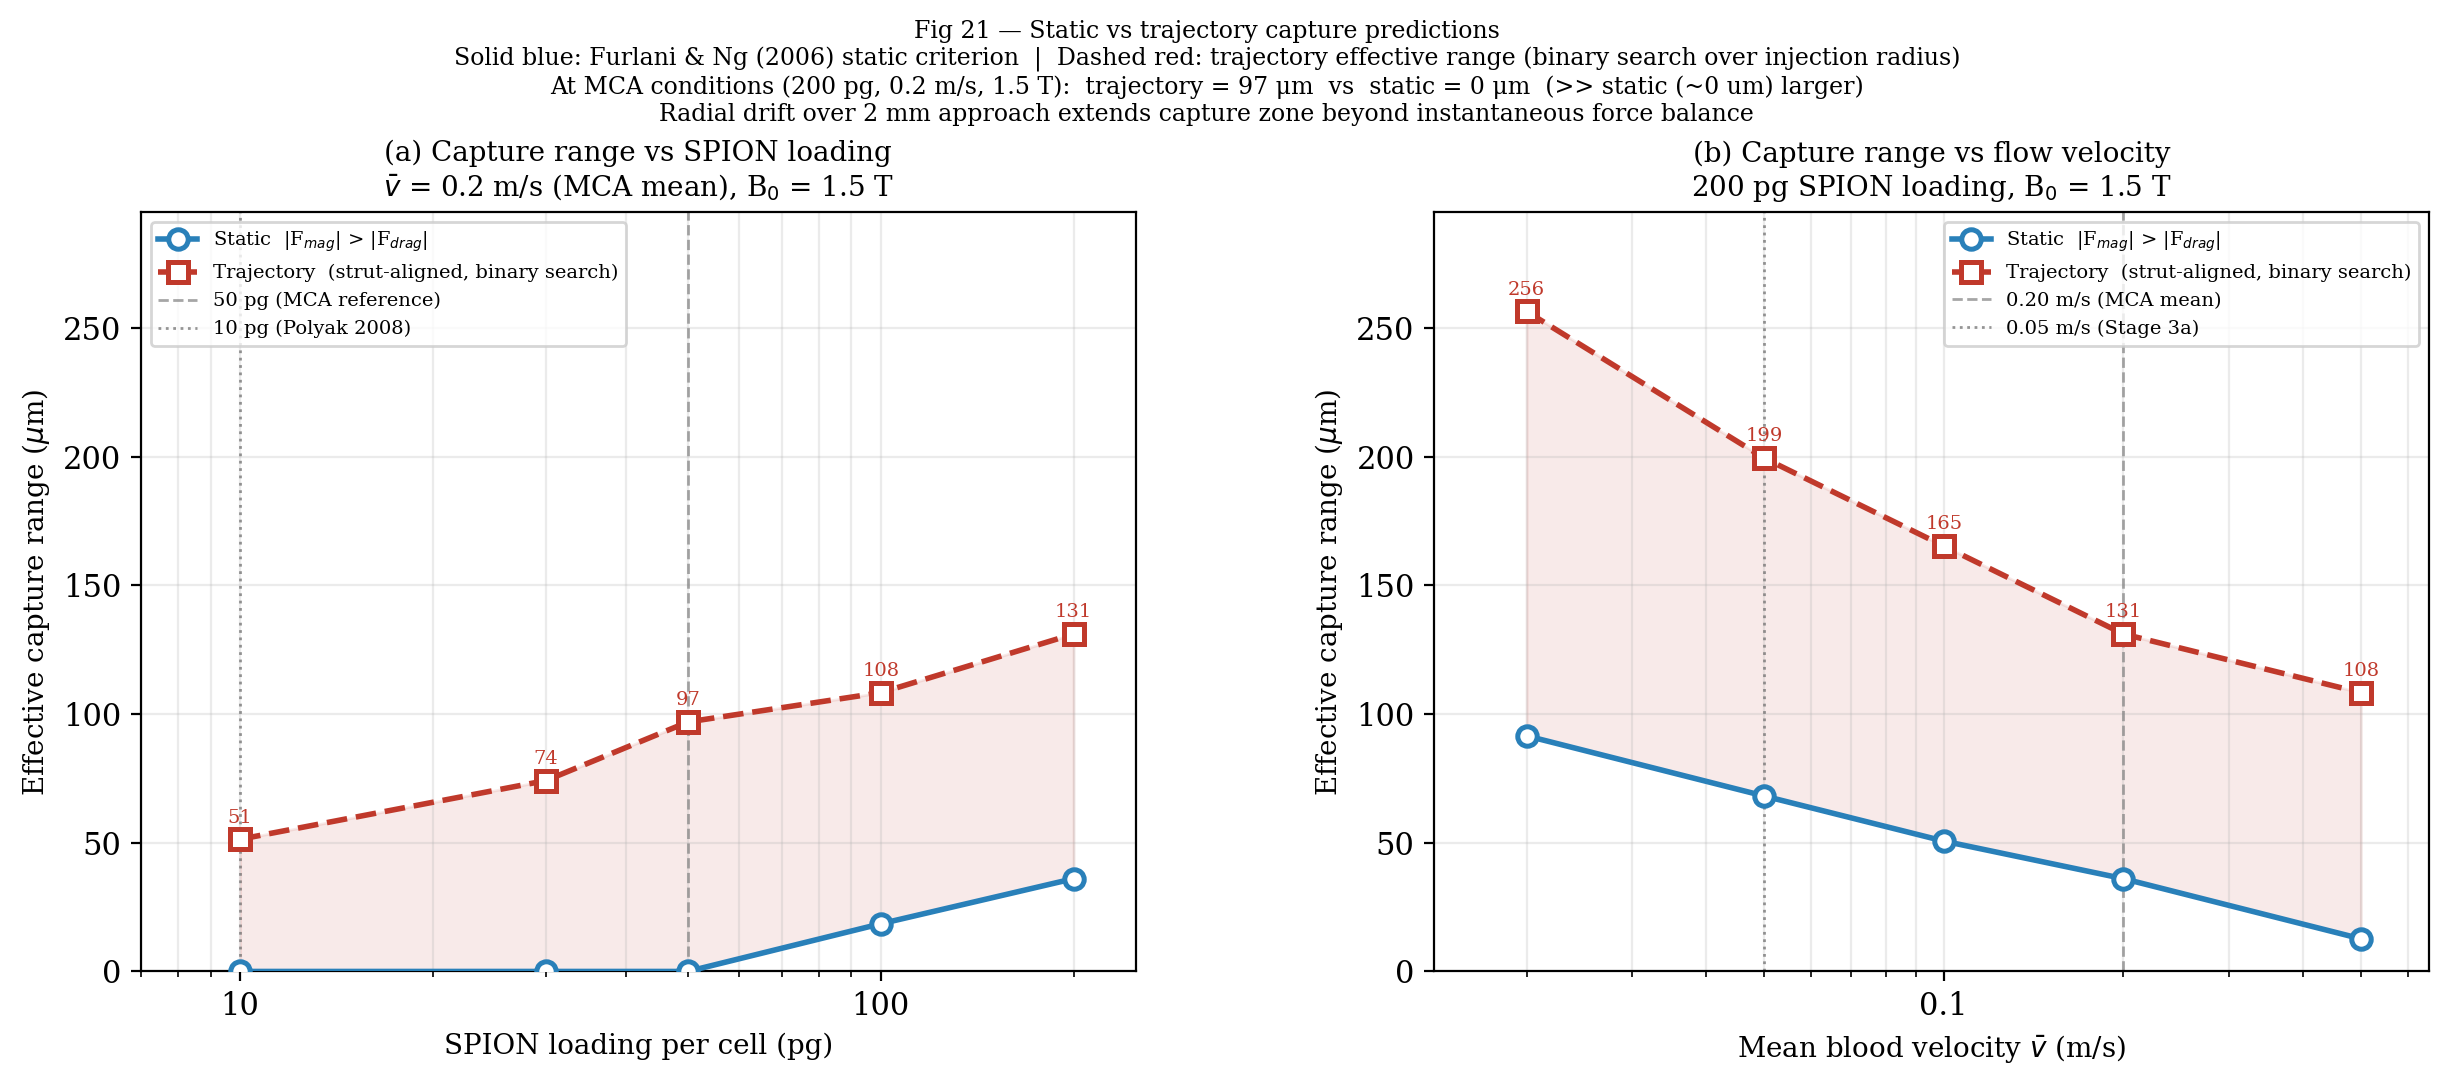
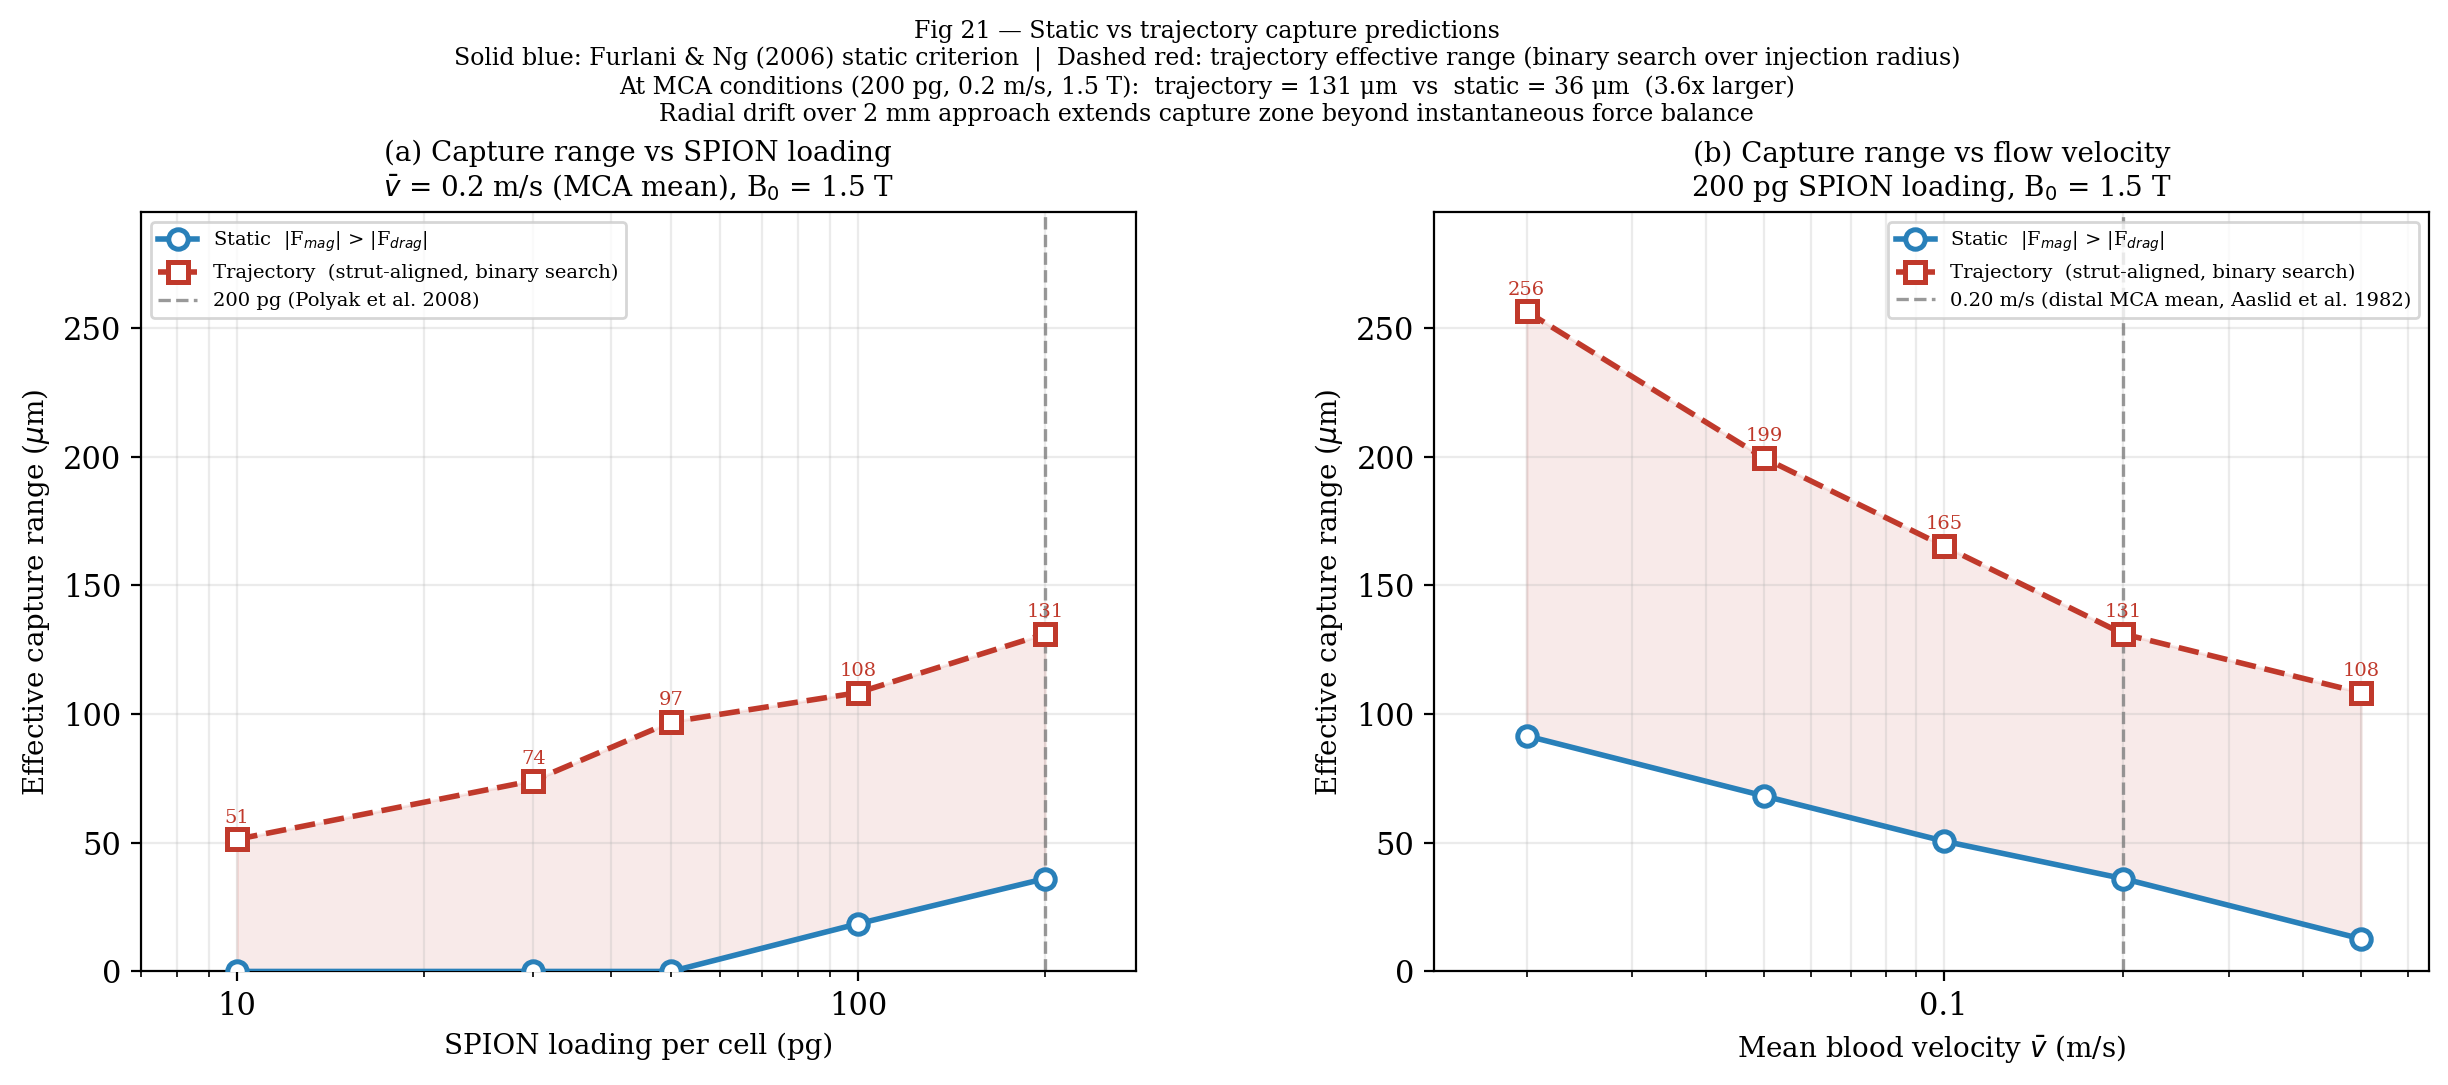
Fix fig21 reference lines: 200pg Polyak, remove unreferenced 10/50pg lines
- Replace axvline(10, '10 pg (Polyak 2008)') — wrong, Polyak used 200 pg
- Replace axvline(50, '50 pg (MCA reference)') — no citable source
- Add axvline(200, '200 pg (Polyak et al. 2008)') — correct reference
- Remove axvline(0.05, 'Stage 3a') from panel (b) — internal note, not citation
- Fix suptitle idx_ref: 50 pg -> 200 pg so headline ratio shows 3.6x
- Widen panel (a) xlim to 280 to give visual space around 200 pg line
- Regenerated PNG/PDF

diff --git a/stent_capture/figures/fig21_static_vs_trajectory.py b/stent_capture/figures/fig21_static_vs_trajectory.py
@@ -169,8 +169,8 @@ def make_figure():
 
     print(f"  Total computation: {time.time()-t_start:.1f} s", flush=True)
 
-    # Reference values for suptitle (50 pg, v = 0.2 m/s)
-    idx_ref = int(np.where(_LOADINGS_PG == 50.0)[0][0])
+    # Reference values for suptitle (200 pg, v = 0.2 m/s — Polyak 2008)
+    idx_ref = int(np.where(_LOADINGS_PG == 200.0)[0][0])
     val_static_ref = static_a[idx_ref]
     val_traj_ref   = traj_a[idx_ref]
     ratio_str = (
@@ -200,13 +200,11 @@ def make_figure():
         ax_a.annotate(f"{tr:.0f}", xy=(m, tr), xytext=(0, 6),
                       textcoords="offset points", ha="center",
                       fontsize=7, color=_COLOR_TRAJ)
-    ax_a.axvline(50, color="gray",    ls="--", lw=1.0, alpha=0.7,
-                 label="50 pg (MCA reference)")
-    ax_a.axvline(10, color="dimgray", ls=":",  lw=1.0, alpha=0.7,
-                 label="10 pg (Polyak 2008)")
+    ax_a.axvline(200, color="gray", ls="--", lw=1.2, alpha=0.8,
+                 label="200 pg (Polyak et al. 2008)")
     ax_a.set_xlabel("SPION loading per cell (pg)", fontsize=10)
     ax_a.set_ylabel("Effective capture range ($\\mu$m)", fontsize=10)
-    ax_a.set_xlim(7, 250)
+    ax_a.set_xlim(7, 280)
     ax_a.set_ylim(0, max_y)
     ax_a.xaxis.set_major_formatter(mticker.FormatStrFormatter("%.4g"))
     ax_a.legend(fontsize=7, loc="upper left")
@@ -232,10 +230,8 @@ def make_figure():
         ax_b.annotate(f"{tr:.0f}", xy=(v, tr), xytext=(0, 6),
                       textcoords="offset points", ha="center",
                       fontsize=7, color=_COLOR_TRAJ)
-    ax_b.axvline(0.20, color="gray",    ls="--", lw=1.0, alpha=0.7,
-                 label="0.20 m/s (MCA mean)")
-    ax_b.axvline(0.05, color="dimgray", ls=":",  lw=1.0, alpha=0.7,
-                 label="0.05 m/s (Stage 3a)")
+    ax_b.axvline(0.20, color="gray", ls="--", lw=1.2, alpha=0.8,
+                 label="0.20 m/s (distal MCA mean, Aaslid et al. 1982)")
     ax_b.set_xlabel("Mean blood velocity $\\bar{v}$ (m/s)", fontsize=10)
     ax_b.set_ylabel("Effective capture range ($\\mu$m)", fontsize=10)
     ax_b.set_xlim(0.014, 0.65)
